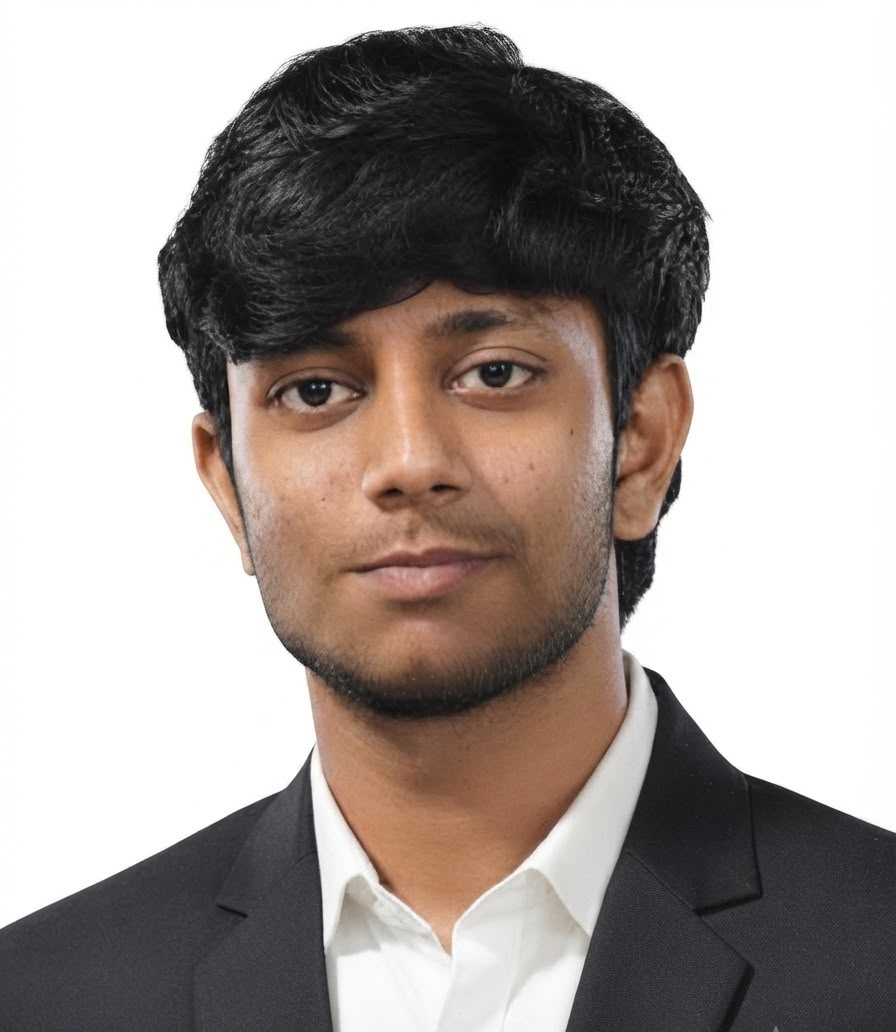
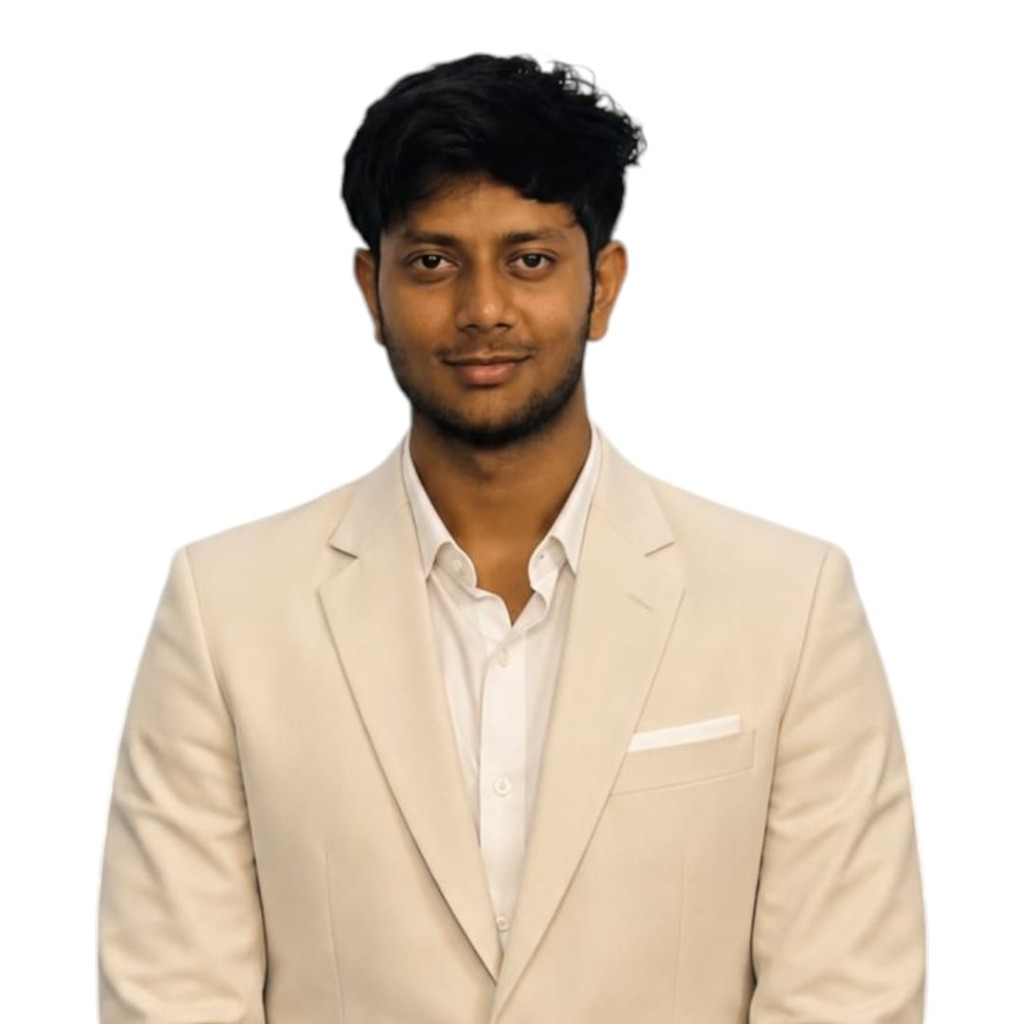
feat: add site footer component and team member images

diff --git a/src/components/site/Footer.tsx b/src/components/site/Footer.tsx
@@ -1,15 +1,80 @@
 import { scrollToSection } from "@/components/SmoothScrollProvider";
-import { Instagram, Facebook, Youtube, Linkedin } from "lucide-react";
+
+function LinkedInIcon({ className }: { className?: string }) {
+  return (
+    <svg viewBox="0 0 24 24" className={className} aria-hidden="true">
+      <rect width="24" height="24" rx="5.5" fill="#0A66C2" />
+      <path
+        fill="#FFFFFF"
+        d="M19 19h-3v-4.7c0-1.1-.9-2-2-2s-2 .9-2 2V19H9V9.5h3v1.3c.6-.8 1.6-1.3 2.7-1.3 2.2 0 4 1.8 4 4V19zM5 19h3V9.5H5V19zM6.5 7.8a1.5 1.5 0 1 0 0-3 1.5 1.5 0 0 0 0 3z"
+      />
+    </svg>
+  );
+}
+
+function InstagramIcon({ className }: { className?: string }) {
+  return (
+    <svg viewBox="0 0 24 24" className={className} aria-hidden="true">
+      <defs>
+        <radialGradient id="instagram-footer-gradient" cx="20%" cy="105%" r="120%">
+          <stop offset="0%" stopColor="#fdf497" />
+          <stop offset="12%" stopColor="#fdf497" />
+          <stop offset="48%" stopColor="#fd5949" />
+          <stop offset="72%" stopColor="#d6249f" />
+          <stop offset="100%" stopColor="#285AEB" />
+        </radialGradient>
+      </defs>
+      <rect width="24" height="24" rx="6" fill="url(#instagram-footer-gradient)" />
+      <rect
+        x="4.2"
+        y="4.2"
+        width="15.6"
+        height="15.6"
+        rx="4.2"
+        fill="none"
+        stroke="#FFFFFF"
+        strokeWidth="1.7"
+      />
+      <circle cx="12" cy="12" r="3.9" fill="none" stroke="#FFFFFF" strokeWidth="1.7" />
+      <circle cx="16.4" cy="7.6" r="1.05" fill="#FFFFFF" />
+    </svg>
+  );
+}
+
+function FacebookIcon({ className }: { className?: string }) {
+  return (
+    <svg viewBox="0 0 24 24" className={className} aria-hidden="true">
+      <circle cx="12" cy="12" r="12" fill="#1877F2" />
+      <path
+        fill="#FFFFFF"
+        d="M15.5 12h-2.5v8h-3.2v-8H7.7v-2.7h2.1V7.5c0-2.3 1.4-3.5 3.5-3.5 1 0 2 .1 2 .1v2.3h-1.2c-1.1 0-1.4.7-1.4 1.4v1.5h2.6l-.4 2.7z"
+      />
+    </svg>
+  );
+}
+
+function YouTubeIcon({ className }: { className?: string }) {
+  return (
+    <svg viewBox="0 0 24 24" className={className} aria-hidden="true">
+      <path
+        fill="#FF0000"
+        d="M23.498 6.186a3.016 3.016 0 0 0-2.122-2.136C19.505 3.545 12 3.545 12 3.545s-7.505 0-9.377.505A3.017 3.017 0 0 0 .502 6.186C0 8.07 0 12 0 12s0 3.93.502 5.814a3.016 3.016 0 0 0 2.122 2.136c1.871.505 9.376.505 9.376.505s7.505 0 9.377-.505a3.015 3.015 0 0 0 2.122-2.136C24 15.93 24 12 24 12s0-3.93-.502-5.814z"
+      />
+      <path fill="#FFFFFF" d="M9.6 15.5V8.5l6.4 3.5-6.4 3.5z" />
+    </svg>
+  );
+}
 
 function XTwitterIcon({ className }: { className?: string }) {
   return (
-    <svg
-      viewBox="0 0 24 24"
-      fill="currentColor"
-      className={className}
-      aria-hidden="true"
-    >
-      <path d="M18.244 2.25h3.308l-7.227 8.26 8.502 11.24H16.17l-5.214-6.817L4.99 21.75H1.68l7.73-8.835L1.254 2.25H8.08l4.713 6.231zm-1.161 17.52h1.833L7.084 4.126H5.117z" />
+    <svg viewBox="0 0 24 24" className={className} aria-hidden="true">
+      <rect width="24" height="24" rx="5.5" fill="#000000" stroke="#333333" strokeWidth="0.8" />
+      <g transform="translate(12 12) scale(0.62) translate(-12 -12)">
+        <path
+          fill="#FFFFFF"
+          d="M18.244 2.25h3.308l-7.227 8.26 8.502 11.24H16.17l-5.214-6.817L4.99 21.75H1.68l7.73-8.835L1.254 2.25H8.08l4.713 6.231zm-1.161 17.52h1.833L7.084 4.126H5.117z"
+        />
+      </g>
     </svg>
   );
 }
@@ -18,22 +83,22 @@ const SOCIAL_LINKS = [
   {
     name: "LinkedIn",
     href: "https://www.linkedin.com/company/141063907/",
-    icon: Linkedin,
+    icon: LinkedInIcon,
   },
   {
     name: "Instagram",
     href: "https://www.instagram.com/thebillionairesaqua.india/",
-    icon: Instagram,
+    icon: InstagramIcon,
   },
   {
     name: "Facebook",
     href: "https://www.facebook.com/profile.php?id=61593097688006",
-    icon: Facebook,
+    icon: FacebookIcon,
   },
   {
     name: "YouTube",
     href: "https://www.youtube.com/@THEBILLIONAIRESAQUA",
-    icon: Youtube,
+    icon: YouTubeIcon,
   },
   {
     name: "X (Twitter)",
